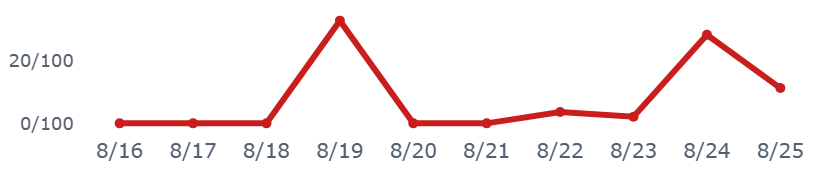
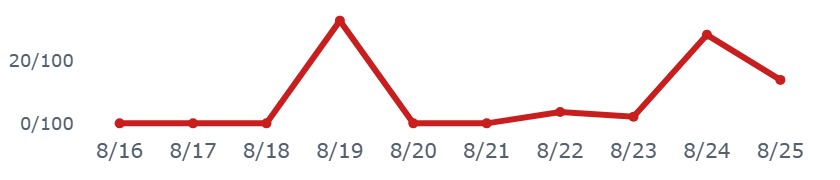
auto: refresh static dashboard (2026-08-25 02:55:19 JST)

Changed region(s): [[0.8357, 0.2222, 0.9595, 0.5]]

diff --git a/docs/index.html b/docs/index.html
@@ -86,7 +86,7 @@
         <span class="price">50,930円</span>
         <span class="chg" style="color:#8B94A3">—</span>
       </div>
-      <p class="caption">更新時刻: 2026-08-25T02:44:19（データは1分間隔で自動生成され、このページも
+      <p class="caption">更新時刻: 2026-08-25T02:54:25（データは1分間隔で自動生成され、このページも
       60秒毎に自動再読み込みされます）</p>
       
       <p id='visit-count-badge' class='caption' style='display:none'></p>
@@ -115,13 +115,13 @@
       <div class='info-box'>📌 前回の取引日(2026-08-24)からの状態変化: 「そう思う大量票」警戒→OK、「ネームド集中」OK→発火、「他銘柄混入率」警戒→発火、「暴落煽り語彙」警戒→OK、「阿鼻叫喚(セリクラ)」警戒→OK、「話題枯れ」OK→発火</div>
       <div class="panel"><div class='signal-row'><div class='signal-name'>灼熱メーター(過熱)<div class='signal-desc'>掲示板全体の強気/弱気の偏りと投稿の勢いから算出した「過熱度」の合成指標。</div></div><div class='signal-note'>過熱スコア7.1 (閾値36)</div><div><span style='display:inline-block;border-radius:999px;padding:2px 10px;font-size:.82em;font-weight:600;color:#fff;background:#15803D;white-space:nowrap'>OK (現在値7.10 / 閾値&gt;36)</span></div></div>
 <div class='signal-row'><div class='signal-name'>そう思う大量票<div class='signal-desc'>Yahoo!掲示板の「そう思う」共感ボタンが1投稿に集中して大量に押されているか。</div></div><div class='signal-note'>そう思う最大27票 (95超=過熱)</div><div><span style='display:inline-block;border-radius:999px;padding:2px 10px;font-size:.82em;font-weight:600;color:#fff;background:#15803D;white-space:nowrap'>OK (現在値27 / 閾値&gt;=95)</span></div></div>
-<div class='signal-row'><div class='signal-name'>イナゴ語彙(euphoria)<div class='signal-desc'>「爆上げ」「握力」等、熱狂・便乗を示す語彙が投稿にどれだけ含まれるか。</div></div><div class='signal-note'>euphoria指数1.8/100投稿</div><div><span style='display:inline-block;border-radius:999px;padding:2px 10px;font-size:.82em;font-weight:600;color:#fff;background:#15803D;white-space:nowrap'>OK (現在値1.80 / 閾値&gt;=5.5/100投稿)</span></div></div>
+<div class='signal-row'><div class='signal-name'>イナゴ語彙(euphoria)<div class='signal-desc'>「爆上げ」「握力」等、熱狂・便乗を示す語彙が投稿にどれだけ含まれるか。</div></div><div class='signal-note'>euphoria指数1.7/100投稿</div><div><span style='display:inline-block;border-radius:999px;padding:2px 10px;font-size:.82em;font-weight:600;color:#fff;background:#15803D;white-space:nowrap'>OK (現在値1.70 / 閾値&gt;=5.5/100投稿)</span></div></div>
 <div class='signal-row'><div class='signal-name'>ネームド集中<div class='signal-desc'>特定の常連投稿者(ハッシュ化ID)に投稿が偏っていないか(少数の声が目立ちすぎていないか)。</div></div><div class='signal-note'>上位5人シェア12%</div><div><span style='display:inline-block;border-radius:999px;padding:2px 10px;font-size:.82em;font-weight:600;color:#fff;background:#C81E1E;white-space:nowrap'>発火 (現在値0.12 / 閾値&gt;=0.1)</span></div></div>
 <div class='signal-row'><div class='signal-name'>他銘柄混入率<div class='signal-desc'>本銘柄の掲示板で他の銘柄コードへの言及がどれだけ多いか(関心が他へ移りつつあるサイン)。</div></div><div class='signal-note'>他銘柄言及15% (関心離散のサイン)</div><div><span style='display:inline-block;border-radius:999px;padding:2px 10px;font-size:.82em;font-weight:600;color:#fff;background:#C81E1E;white-space:nowrap'>発火 (現在値0.15 / 閾値&gt;=0.11)</span></div></div>
-<div class='signal-row'><div class='signal-name'>暴落煽り語彙<div class='signal-desc'>「暴落」「終わった」等、悲観・煽りを示す語彙が投稿にどれだけ含まれるか。</div></div><div class='signal-note'>煽り指数2.8/100投稿</div><div><span style='display:inline-block;border-radius:999px;padding:2px 10px;font-size:.82em;font-weight:600;color:#fff;background:#15803D;white-space:nowrap'>OK (現在値2.80 / 閾値&gt;=5.0/100投稿)</span></div></div>
-<div class='signal-row'><div class='signal-name'>阿鼻叫喚(セリクラ)<div class='signal-desc'>株価が安値圏にある中で悲観語彙が急増しているか(セリングクライマックスの兆候)。</div></div><div class='signal-note'>阿鼻叫喚スコア11.2 安値圏外</div><div><span style='display:inline-block;border-radius:999px;padding:2px 10px;font-size:.82em;font-weight:600;color:#fff;background:#15803D;white-space:nowrap'>OK (現在値11.20 / 閾値&gt;30)</span></div></div>
-<div class='signal-row'><div class='signal-name'>話題枯れ<div class='signal-desc'>過去の平均と比べて本日の投稿数が著しく少ないか(閑散・関心低下のサイン)。</div></div><div class='signal-note'>投稿数z=-1.31 (負=閑散)</div><div><span style='display:inline-block;border-radius:999px;padding:2px 10px;font-size:.82em;font-weight:600;color:#fff;background:#C81E1E;white-space:nowrap'>発火 (現在値-1.31 / 閾値z&lt;-1)</span></div></div>
-<div class='signal-row'><div class='signal-name'>投稿サージ<div class='signal-desc'>過去の平均と比べて本日の投稿数が著しく多いか(急な注目集中のサイン)。</div></div><div class='signal-note'>投稿数z=-1.31 (量→ボラ予測が文献の主結果)</div><div><span style='display:inline-block;border-radius:999px;padding:2px 10px;font-size:.82em;font-weight:600;color:#fff;background:#15803D;white-space:nowrap'>OK (現在値-1.31 / 閾値z&gt;2)</span></div></div></div>
+<div class='signal-row'><div class='signal-name'>暴落煽り語彙<div class='signal-desc'>「暴落」「終わった」等、悲観・煽りを示す語彙が投稿にどれだけ含まれるか。</div></div><div class='signal-note'>煽り指数3.2/100投稿</div><div><span style='display:inline-block;border-radius:999px;padding:2px 10px;font-size:.82em;font-weight:600;color:#fff;background:#15803D;white-space:nowrap'>OK (現在値3.20 / 閾値&gt;=5.0/100投稿)</span></div></div>
+<div class='signal-row'><div class='signal-name'>阿鼻叫喚(セリクラ)<div class='signal-desc'>株価が安値圏にある中で悲観語彙が急増しているか(セリングクライマックスの兆候)。</div></div><div class='signal-note'>阿鼻叫喚スコア13.8 安値圏外</div><div><span style='display:inline-block;border-radius:999px;padding:2px 10px;font-size:.82em;font-weight:600;color:#fff;background:#15803D;white-space:nowrap'>OK (現在値13.80 / 閾値&gt;30)</span></div></div>
+<div class='signal-row'><div class='signal-name'>話題枯れ<div class='signal-desc'>過去の平均と比べて本日の投稿数が著しく少ないか(閑散・関心低下のサイン)。</div></div><div class='signal-note'>投稿数z=-1.3 (負=閑散)</div><div><span style='display:inline-block;border-radius:999px;padding:2px 10px;font-size:.82em;font-weight:600;color:#fff;background:#C81E1E;white-space:nowrap'>発火 (現在値-1.30 / 閾値z&lt;-1)</span></div></div>
+<div class='signal-row'><div class='signal-name'>投稿サージ<div class='signal-desc'>過去の平均と比べて本日の投稿数が著しく多いか(急な注目集中のサイン)。</div></div><div class='signal-note'>投稿数z=-1.3 (量→ボラ予測が文献の主結果)</div><div><span style='display:inline-block;border-radius:999px;padding:2px 10px;font-size:.82em;font-weight:600;color:#fff;background:#15803D;white-space:nowrap'>OK (現在値-1.30 / 閾値z&gt;2)</span></div></div></div>
       <p class="caption">※研究・エンタメ用途・未検証。売買シグナルではありません。
       掲示板は方向よりボラを予測する傾向が文献で報告されています(Antweiler &amp; Frank, 2004)。</p>
 
@@ -150,24 +150,24 @@
       
 
       <h2>🤖 AI考察</h2>
-      <div class='metric-row'><div class='metric-card'><div class='metric-label'>株価</div><div class='metric-value'>50,930円</div><div class='metric-delta'>+0円</div></div><div class='metric-card'><div class='metric-label'>強気比率</div><div class='metric-value'>36.3%</div><div class='metric-delta'>+0.1pt</div></div><div class='metric-card'><div class='metric-label'>弱気比率</div><div class='metric-value'>53.6%</div><div class='metric-delta'>-0.2pt</div></div></div><p class='caption'>前回集計(2026-08-25T02:34:25)との比較</p>
-      <div class='ai-box'>本資料は掲示板の集計センチメントデータに基づく分析であり、投資助言ではありません。<br>
+      <div class='metric-row'><div class='metric-card'><div class='metric-label'>株価</div><div class='metric-value'>50,930円</div><div class='metric-delta'>+0円</div></div><div class='metric-card'><div class='metric-label'>強気比率</div><div class='metric-value'>35.2%</div><div class='metric-delta'>-1.1pt</div></div><div class='metric-card'><div class='metric-label'>弱気比率</div><div class='metric-value'>54.7%</div><div class='metric-delta'>+1.1pt</div></div></div><p class='caption'>前回集計(2026-08-25T02:44:19)との比較</p>
+      <div class='ai-box'>本件は掲示板の集計センチメントデータに基づく分析であり、投資助言ではありません。<br>
 <br>
-キオクシアホールディングス（285A）について、寄り付き前の状況を統計データに基づき整理します。前営業日の終値は50,930.0円となっており、直近の日次推移を見ると、8月17日に高値を付けた後、現在は緩やかな調整局面にあることが見て取れます。<br>
+キオクシアホールディングス（285A）について、寄り付き前の最新データを基にした客観的な状況をまとめます。<br>
 <br>
-掲示板のセンチメントについては、強気比率が36.3％に対し、弱気比率が53.6％と、弱気の意見が優勢な状況です。前回の集計（約10分前）と比較すると、価格や強気・弱気比率はほぼ横ばいですが、投稿数がわずかに増加しており、一定の関心は維持されています。<br>
+前営業日の終値は50,930.0円となっており、直近の取引日からの推移を見ると、価格や強気・弱気比率ともに一定の変動を見せています。特に8月17日以降の推移では、強気と弱気の比率が拮抗する場面も見られましたが、前営業日の終値時点では弱気比率（57.9%）が強気比率（33.3%）を上回る結果となっています。<br>
 <br>
-シグナル発火状況を確認すると、「ネームド集中」および「他銘柄混入率」において統計的な偏り（発火）が確認されています。これは特定のユーザー層への意見集中や、他の銘柄に関する話題が混在している可能性を示唆しています。一方で、前営業日からの変化として「話題枯れ」の指標がOKから発火へと移行しており、掲示板上での活発な議論が一時的に停滞している傾向が見て取れます。<br>
+直近数分間の集計変化を確認すると、価格は変わらないものの、強気比率は1.1ポイント低下し、逆に弱気比率は1.1ポイント上昇しています。投稿数はわずかに増加しており、短時間でのセンチメントの推移としては、やや弱気寄りの傾向が継続していることが見て取れます。<br>
 <br>
-ボラティリティに関しては、現在は「calibrating（較正中）」のレジームにあり、BVPは0.186となっています。また、過熱度スコアは7.1と低く、総悲観度スコアも11.2にとどまっており、掲示板上の反応としては極端な過熱状態にはないことが分かります。<br>
+掲示板の統計的なシグナル状況については、いくつかの指標で「発火」が確認されています。「ネームド集中」および「他銘柄混入率」がしきい値を超えており、特定の層による関心の偏りや、話題の拡散・離散の兆候が含まれている可能性があります。また、「話題枯れ」も発火しており、投稿数の統計的な推移から見て、一定の閑散状態にあることが示唆されています。一方で、過熱度や暴落煽りに関する指標は「OK」の範囲内に留まっています。<br>
 <br>
-なお、取引時間外の動きとして、PTSでは前日終値比マイナス2.16％、米国ADRでも約マイナス2.31％と軟調に推移しています。これらは翌営業日の寄り付きに向けた参考情報となります。<br>
+ボラティリティについては、現在は「calibrating（較正中）」のレジームにあり、BVP（ボラティリティ指標）は0.186となっています。これは現在の値動きの荒さや変動幅を確定させるための調整段階にあることを示しています。<br>
 <br>
-総じて、掲示板上では弱気の意見がやや優勢な中で議論が落ち着きを見せている状況であり、特定の層への集中や話題の分散といった統計的な特徴を伴っています。</div><p class='caption'>生成時刻: 2026-08-25T02:44:19</p>
+なお、取引時間外の動向として、PTSでは前日終値比で-2.16%、米国ADR円換算では-2.48%とマイナスの動きを見せています。これらは翌営業日の寄り付きに向けた参考情報となります。</div><p class='caption'>生成時刻: 2026-08-25T02:54:25</p>
 
       <hr style="border:none;border-top:1px solid var(--border);margin:2rem 0 1rem">
       <p class="caption">⚠ 本情報は掲示板投稿を統計的に集計したものであり、投資助言ではありません。個別の投稿内容は含まれていません。研究・エンタメ用途です。</p>
-      <footer>生成: generate_static_dashboard.py（2026-08-25T02:54:26） /
+      <footer>生成: generate_static_dashboard.py（2026-08-25T02:55:07） /
       画像バックエンド: plotly+kaleido</footer>
     </div>
     <script>(function(){var url="https://script.google.com/macros/s/AKfycbwgSSGQ2n56ohmIYKlNDA1Xe3D8hd3GJbD0U90L4DGtXdb8pqrPokNMHJWjvN1__7bE/exec";var KEY='bbs_visit_counted';var already=sessionStorage.getItem(KEY);var action=already?'read':'hit';var ctrl=(typeof AbortController!=='undefined')?new AbortController():null;var timer=ctrl?setTimeout(function(){ctrl.abort();},5000):null;fetch(url+'?action='+action,{signal:ctrl?ctrl.signal:undefined}).then(function(r){if(timer)clearTimeout(timer);return r.json();}).then(function(data){if(!already)sessionStorage.setItem(KEY,'1');if(data&&typeof data.count==='number'){var el=document.getElementById('visit-count-badge');if(el){el.textContent='\u{1F440} \u7d2f\u8a08\u95b2\u89a7\u6570: '+data.count.toLocaleString();el.style.display='';}}}).catch(function(e){if(timer)clearTimeout(timer);console.warn('visit counter fetch failed (fail-soft):',e);});})();</script></body></html>
